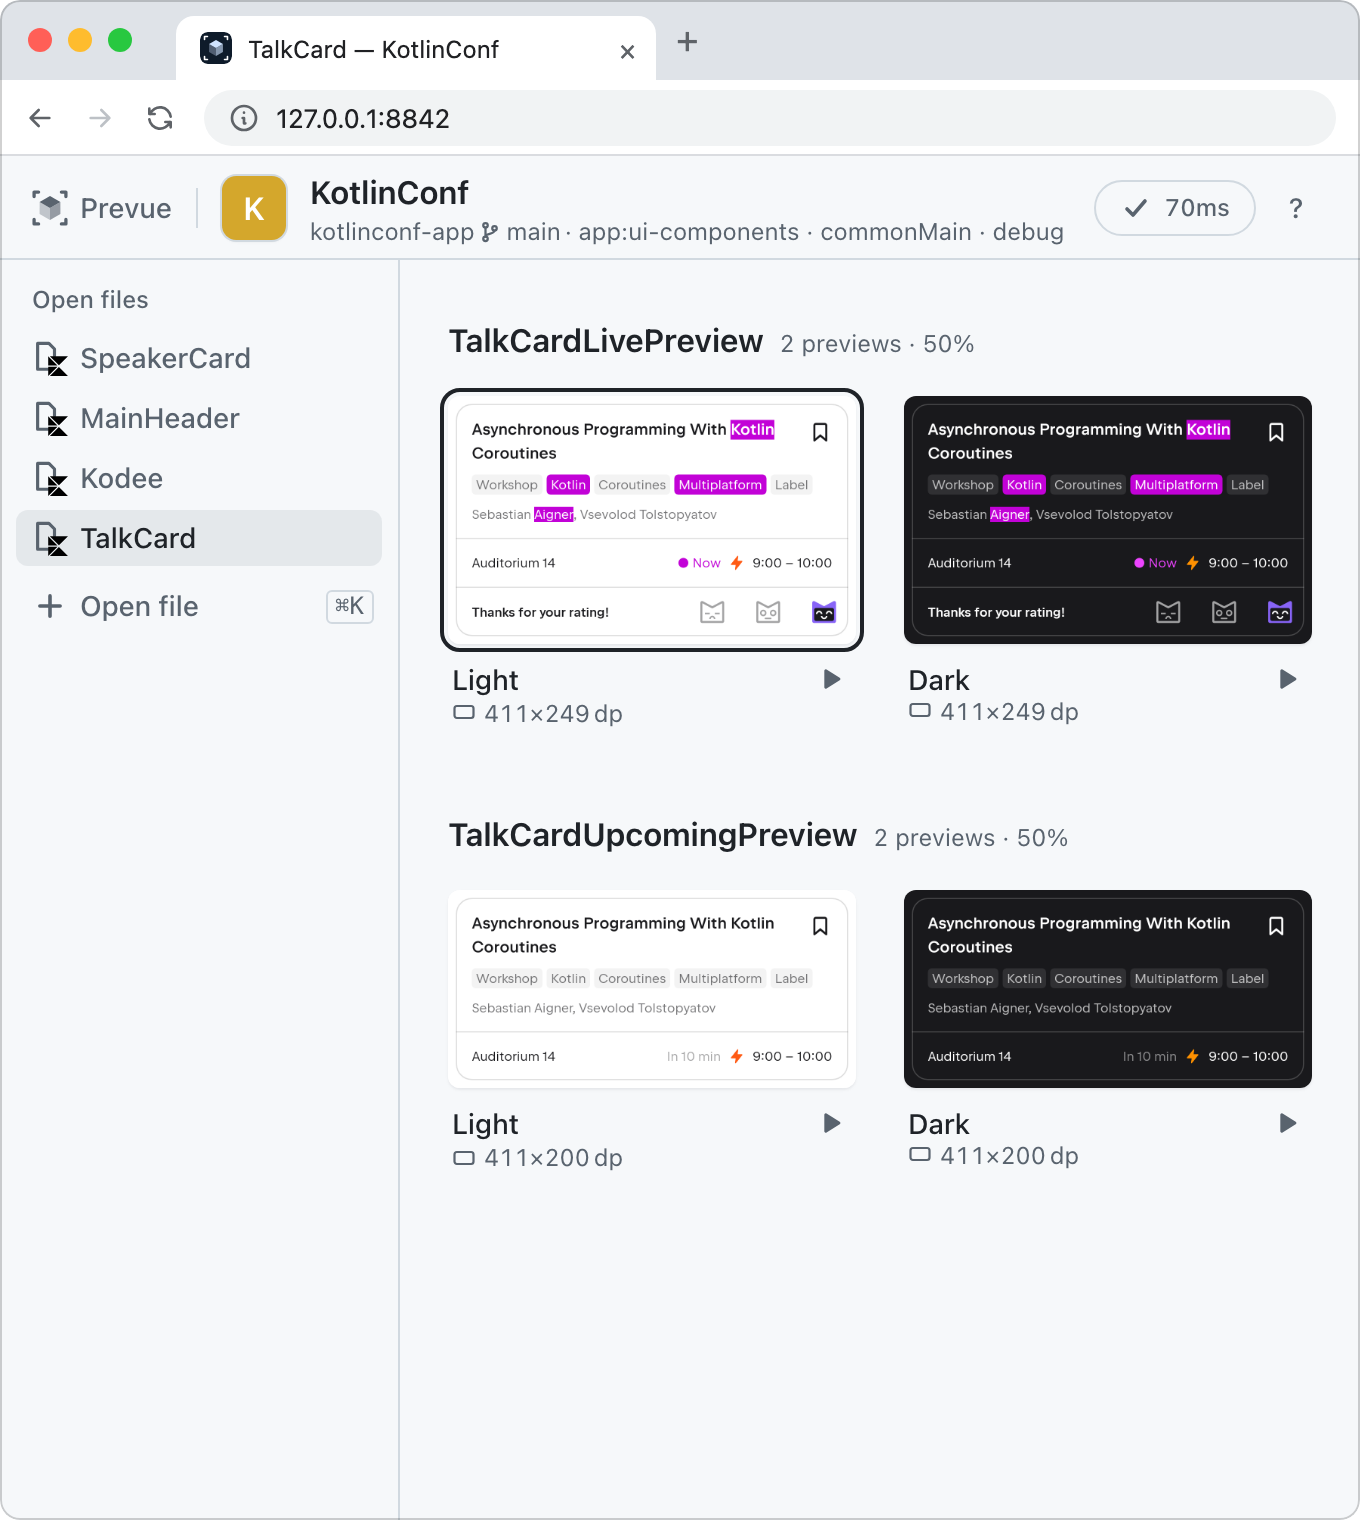
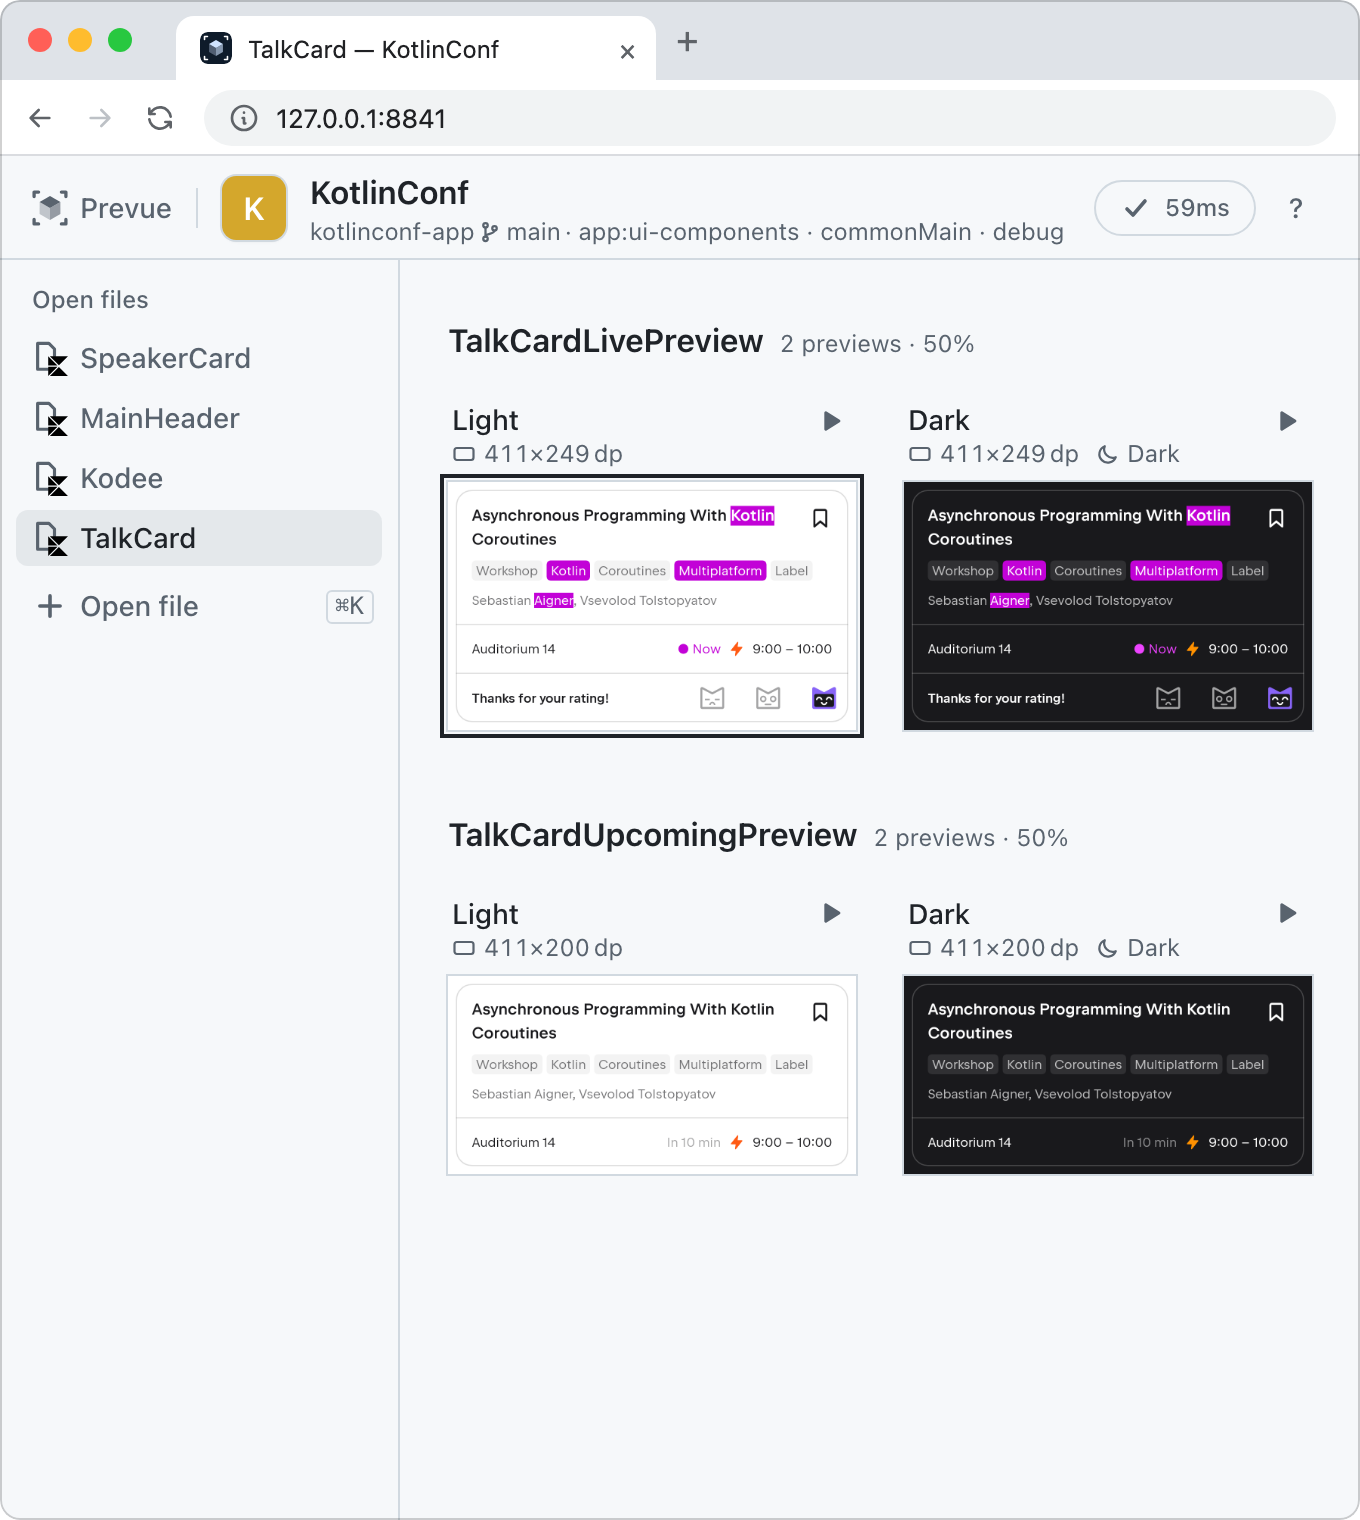
README hero · board-kotlinconf 를 0.22 보드로 다시 찍는다 — 그림 위 이름 · 크기를 alt에

diff --git a/README.md b/README.md
@@ -61,7 +61,7 @@ Save, and the Preview redraws in about a second without Gradle. Change only a va
 Every `@Preview` in a file is laid out on a board grouped by function and redrawn on every save. The agent and you look at the same board, so "it's done" and "I see it" happen at the same moment.
 
 <p align="center">
-  <img src="assets/hero.png" width="50%" alt="The board with the Previews of nowinandroid ForYouScreen.kt laid out in groups by function. The header shows the app name, folder, branch, module, and variant, with a check pill on the right. The open files list on the left has ForYouScreen, InterestsScreen, and NewsResourceCard, and each group header shows its count and zoom"><img src="assets/board-kotlinconf.png" width="50%" alt="The board for TalkCard.kt in the commonMain of the KotlinConf app's ui-components module. The header shows KotlinConf with kotlinconf-app, main, app:ui-components, commonMain and debug. In the open files list on the left, SpeakerCard, MainHeader, Kodee and TalkCard each carry the Kotlin Multiplatform mark on their file icon. Two groups, TalkCardLivePreview and TalkCardUpcomingPreview, each show a light and a dark session card for Asynchronous Programming With Kotlin Coroutines with its tags, speakers, room and time">
+  <img src="assets/hero.png" width="50%" alt="The board with the Previews of nowinandroid ForYouScreen.kt laid out in groups by function. The header shows the app name, folder, branch, module, and variant, with a check pill on the right. The open files list on the left has ForYouScreen, InterestsScreen, and NewsResourceCard, and each group header shows its count and zoom. Each Preview's name and size sit above its picture"><img src="assets/board-kotlinconf.png" width="50%" alt="The board for TalkCard.kt in the commonMain of the KotlinConf app's ui-components module. The header shows KotlinConf with kotlinconf-app, main, app:ui-components, commonMain and debug. In the open files list on the left, SpeakerCard, MainHeader, Kodee and TalkCard each carry the Kotlin Multiplatform mark on their file icon. Two groups, TalkCardLivePreview and TalkCardUpcomingPreview, each show a light and a dark session card for Asynchronous Programming With Kotlin Coroutines with its tags, speakers, room and time, and the name and size of each sit above the card">
 </p>
 <p align="center"><sub>Left: <a href="https://github.com/android/nowinandroid">Now in Android</a> (Apache-2.0) · Right: <a href="https://github.com/JetBrains/kotlinconf-app">KotlinConf app</a>, Compose Multiplatform (Apache-2.0)</sub></p>
 
